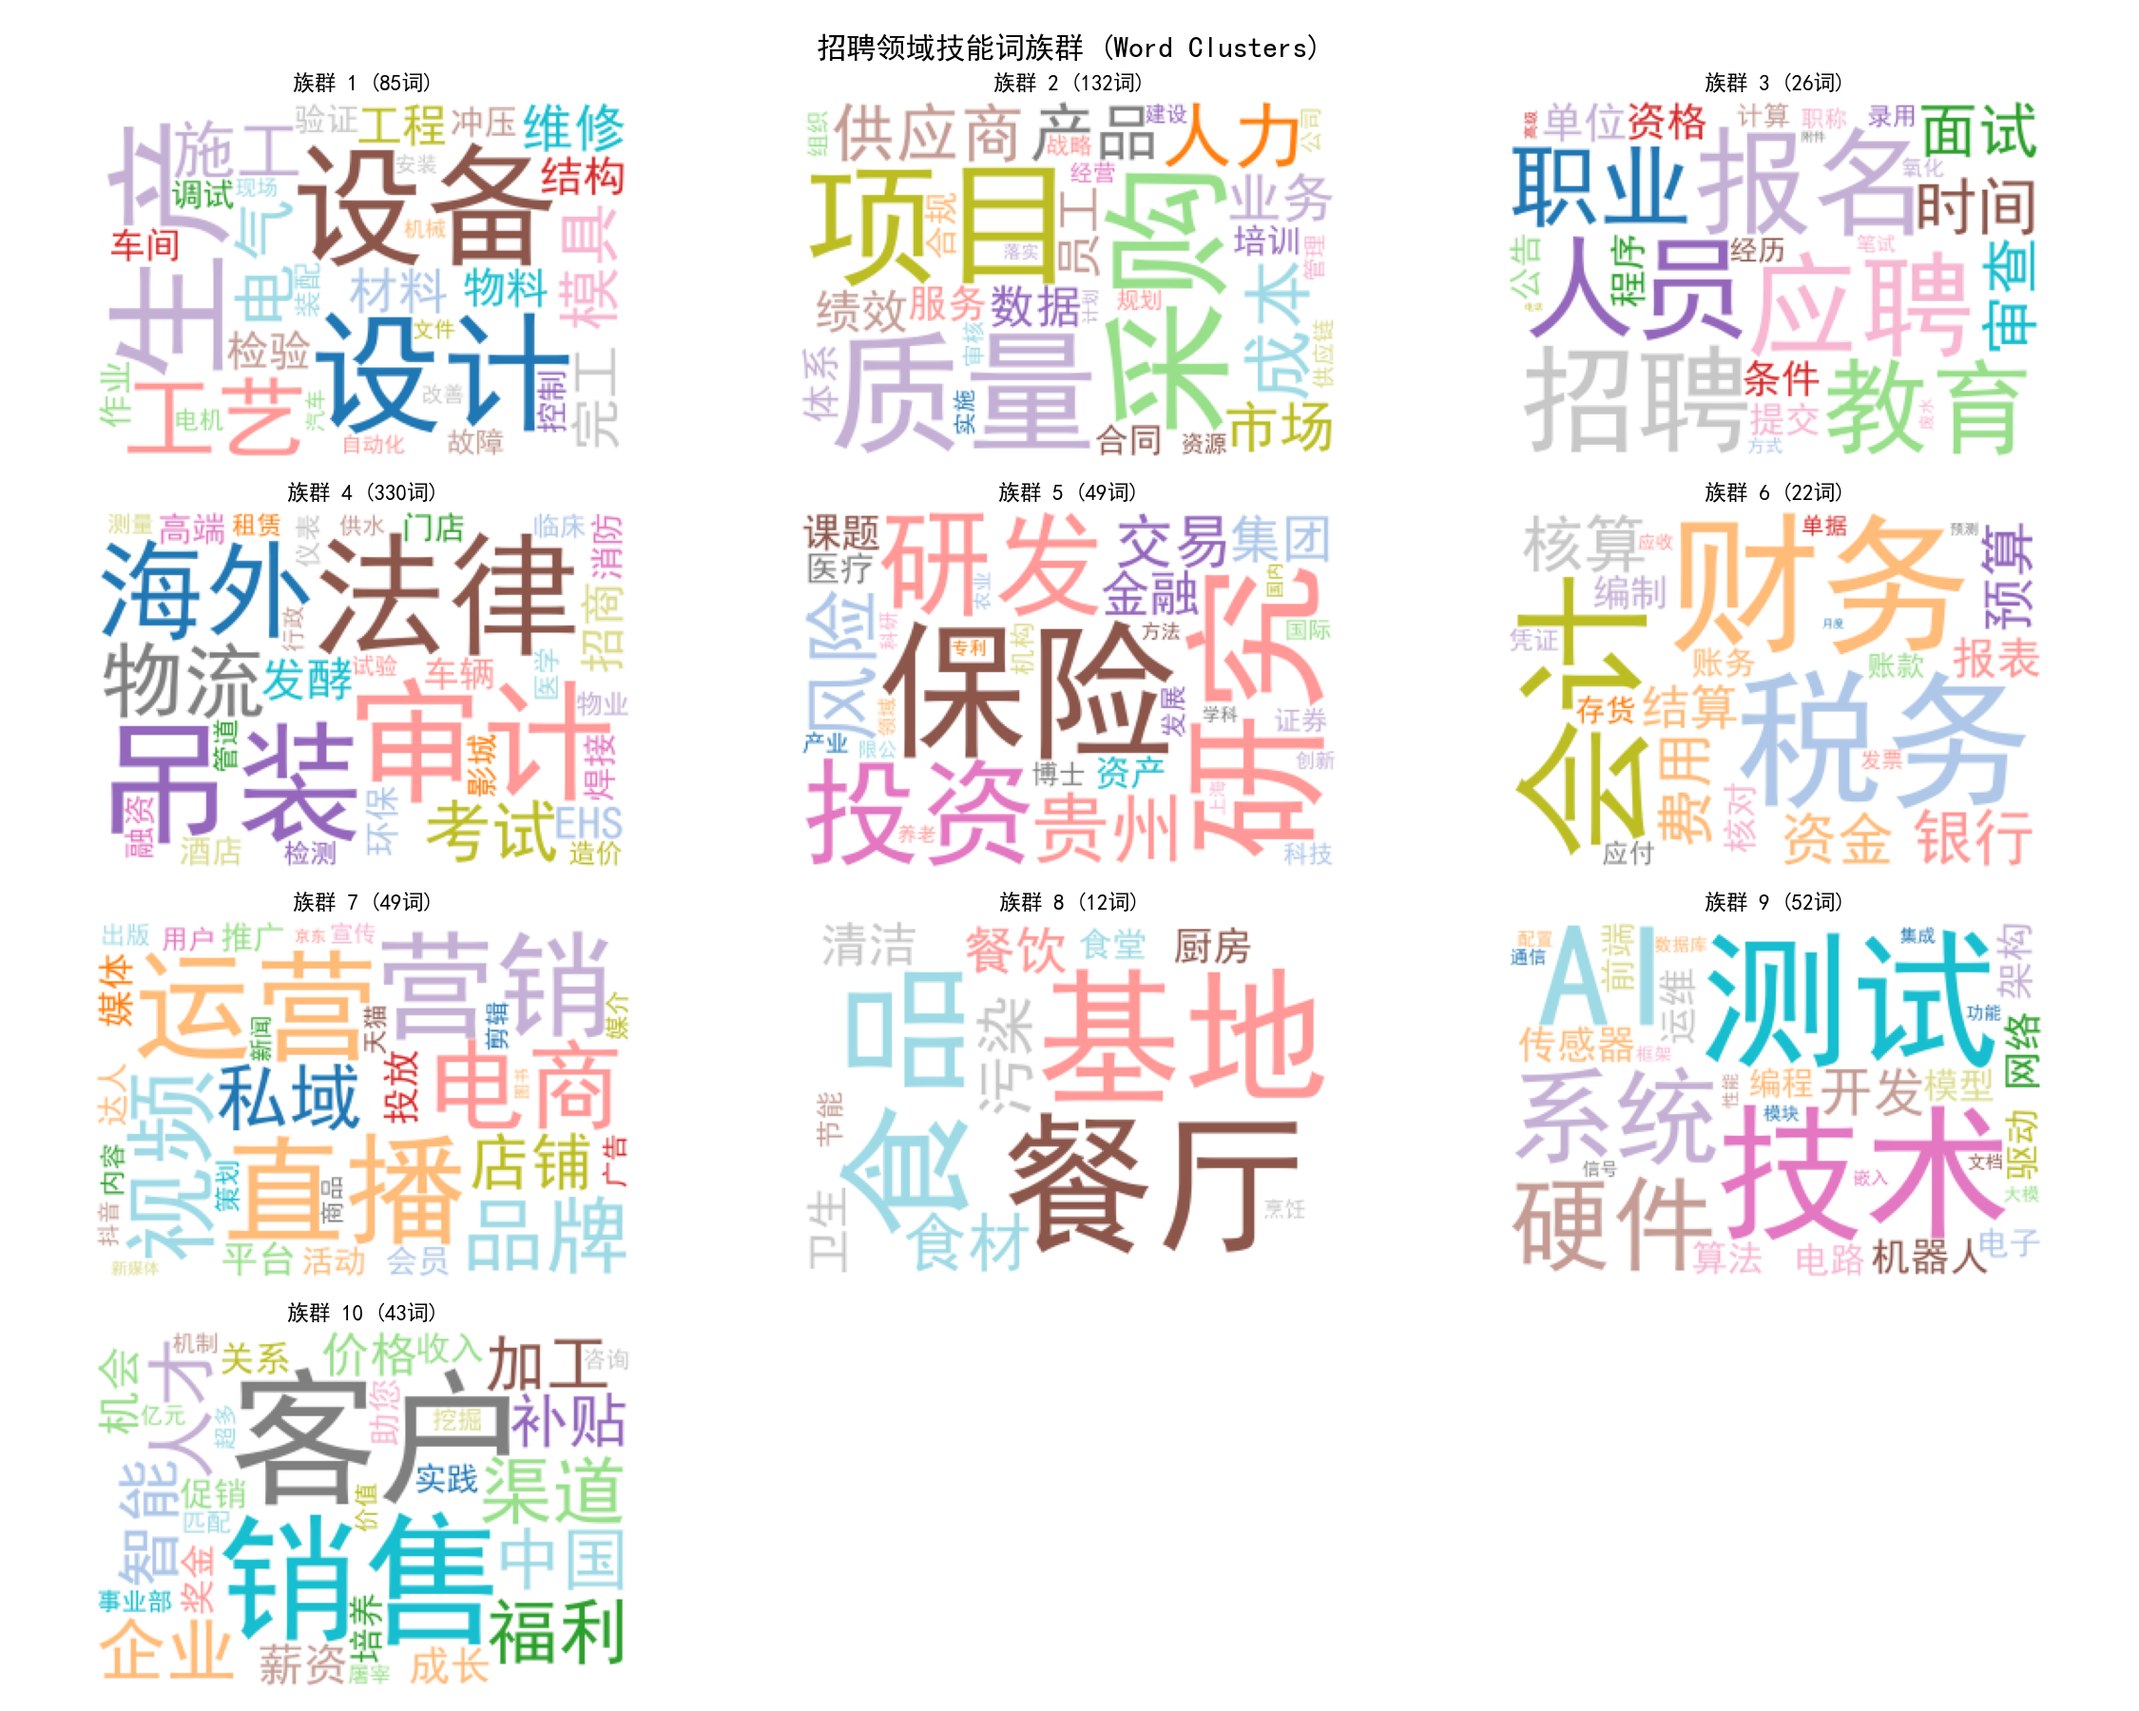
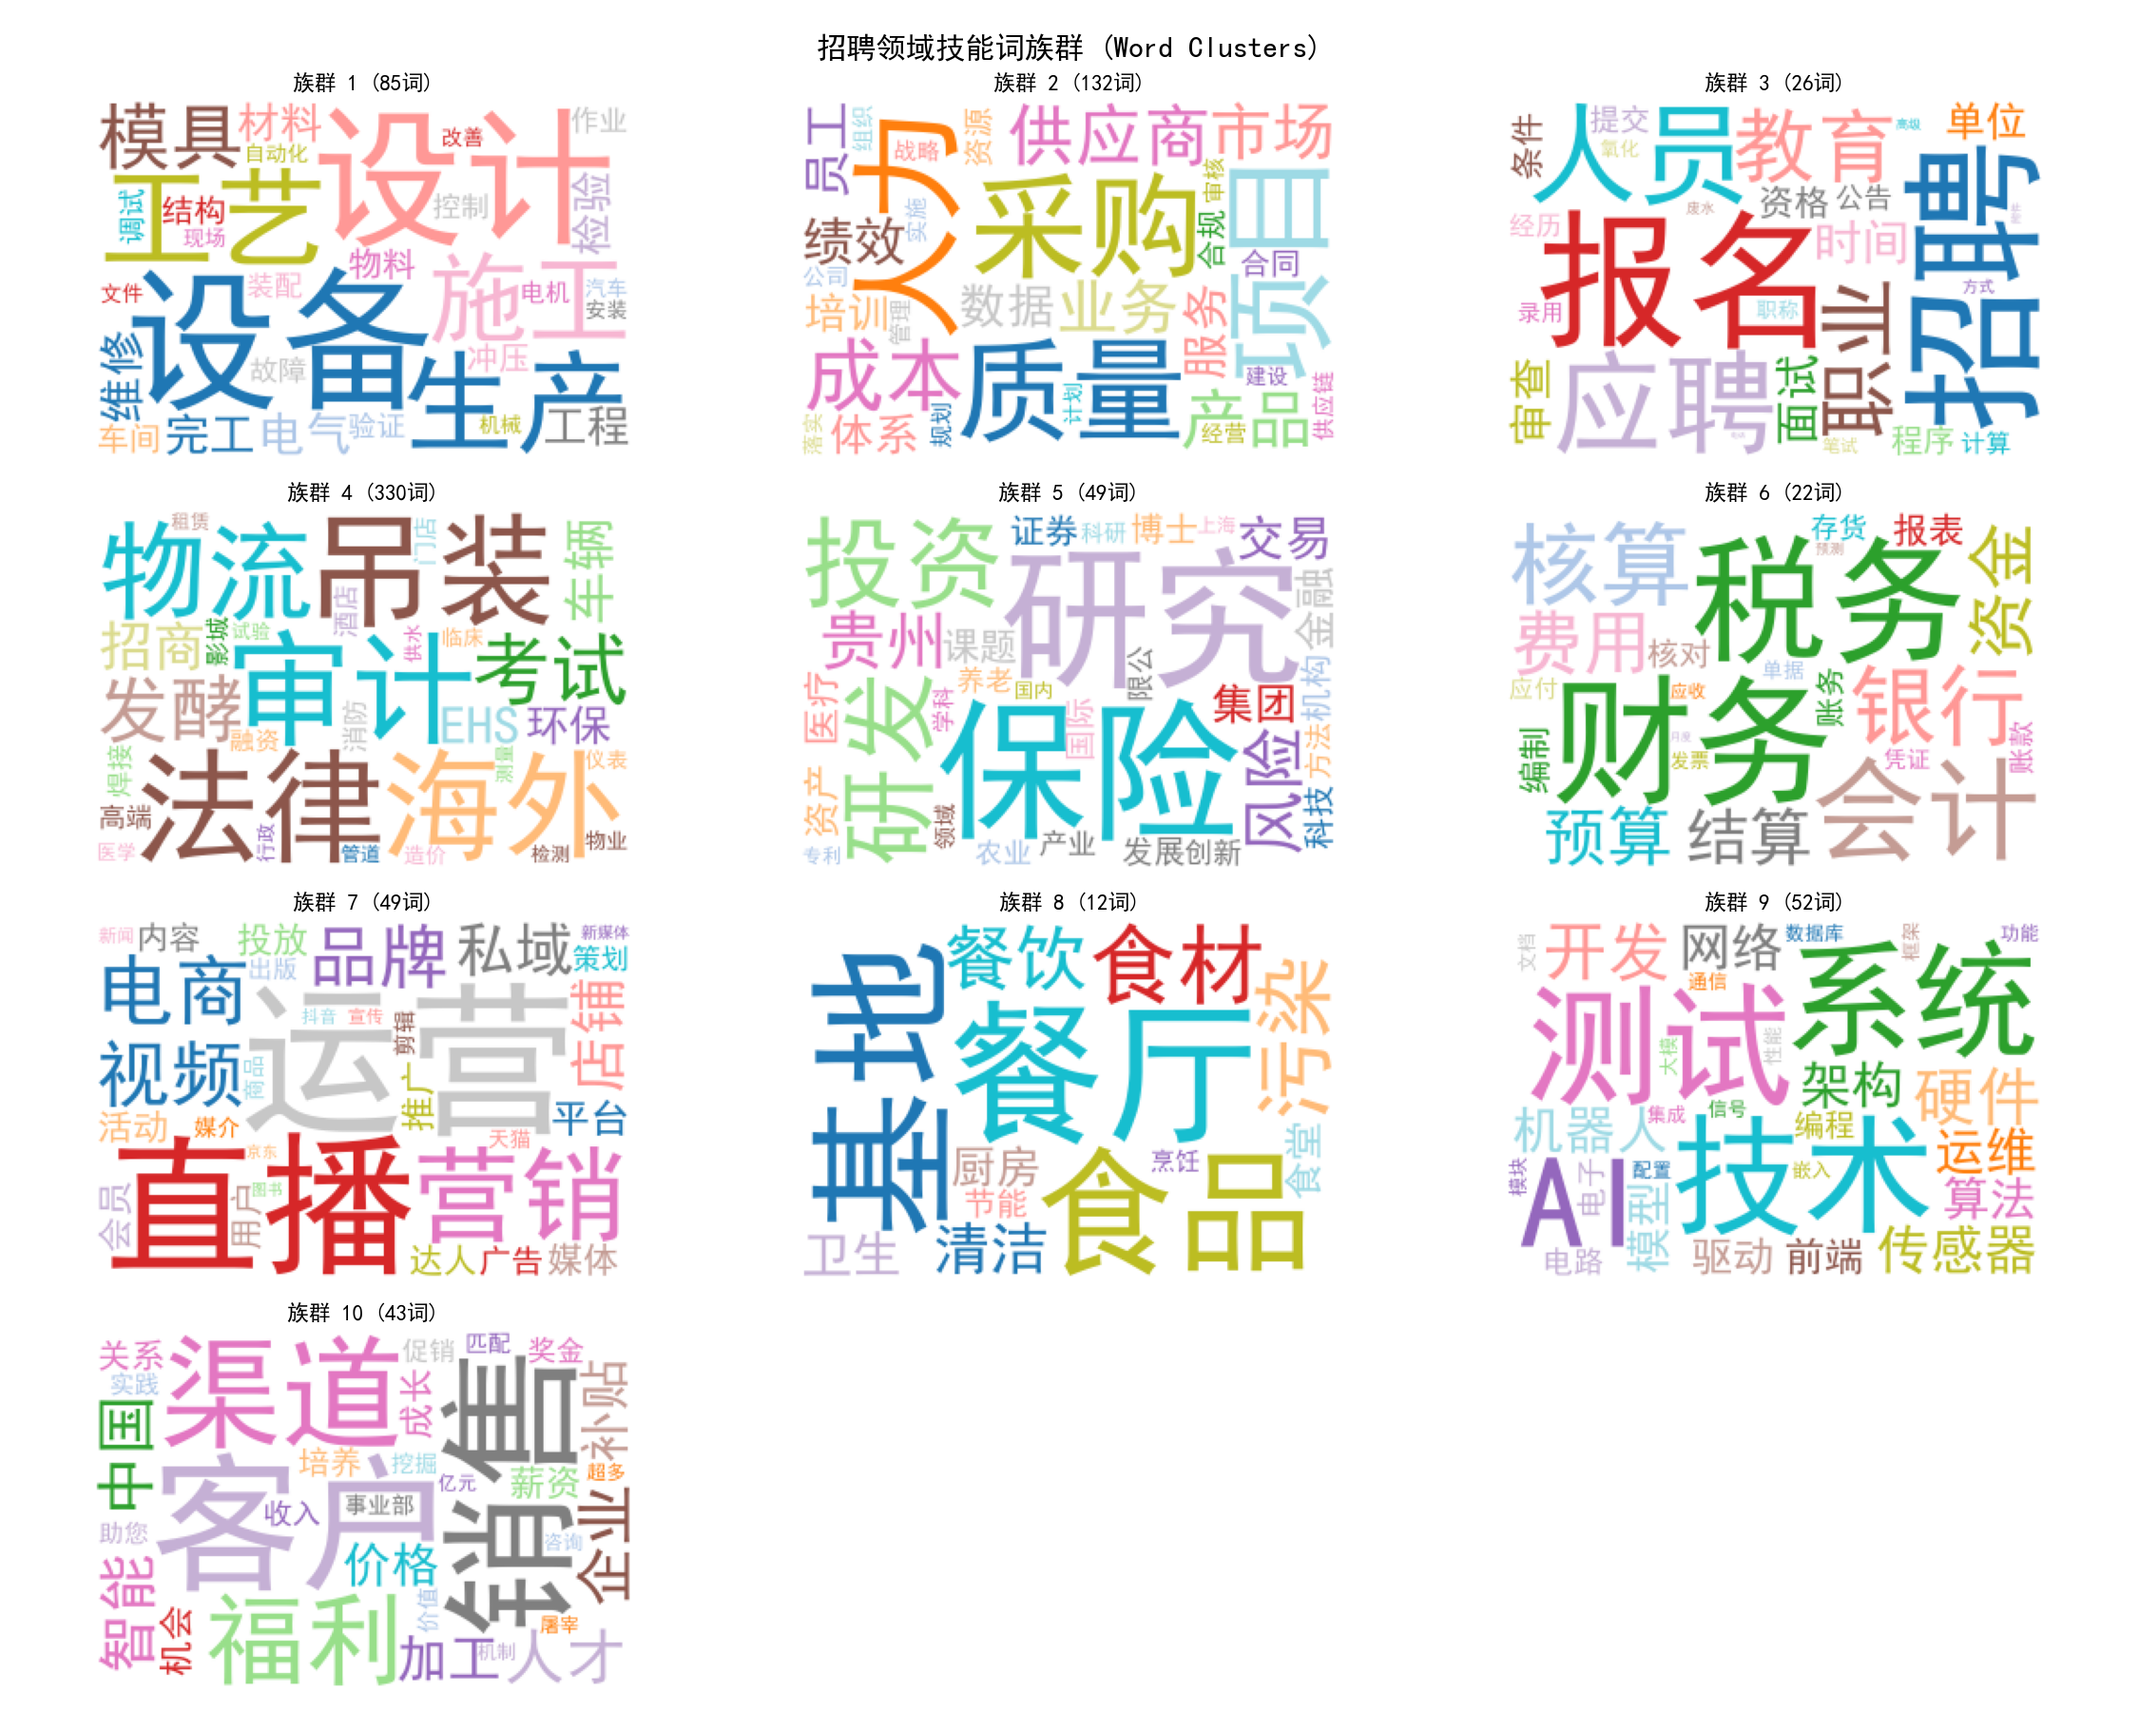
feat(clustering): add cluster evaluation and label saving
1. 新增聚类算法评估结果保存，生成cluster_eval.json包含各算法纯度、熵和聚类重叠度
2. 保存所有聚类方法的标签与相关信息到cluster_labels.json
3. 调整词聚类列表中"小区"的位置
4. 更新了可视化输出图片

diff --git a/code/src/pre_midterm/15_clustering.py b/code/src/pre_midterm/15_clustering.py
@@ -349,6 +349,15 @@ def main():
     best_k, kmeans_labels, kmeans_sil = run_kmeans_words(X)
     hier_results, hier_best = run_hierarchical_words(X, words, best_k)
 
+    # ── 保存所有聚类方法的标签 ──
+    all_labels = {"K-Means": kmeans_labels.tolist()}
+    for name in ["Ward", "Single", "Complete"]:
+        all_labels[name] = hier_results[name]["labels"].tolist()
+    all_labels["best_k"] = best_k
+    all_labels["words"] = words
+    with open(os.path.join(OUT_DIR, "cluster_labels.json"), "w", encoding="utf-8") as f:
+        json.dump(all_labels, f, ensure_ascii=False)
+
     # 用轮廓系数更高的
     hier_sil = hier_results[hier_best]["silhouette"]
     if hier_sil > kmeans_sil:
